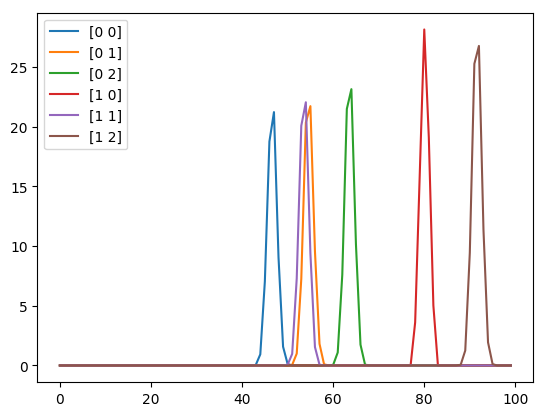
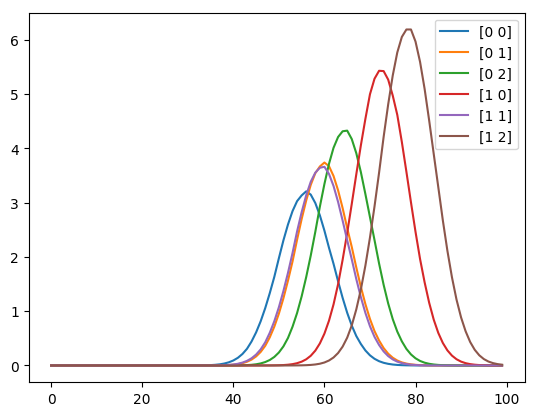
switched order of arguments to calculate fair scores, seems to be wrong in ot docs

diff --git a/src/cfa/cfa.py b/src/cfa/cfa.py
@@ -96,15 +96,15 @@ class ContinuousFairnessAlgorithm():
             self.__plott(group_barycenters, 'groupBarycenters.png')
         return group_barycenters
 
-    def __calculateFairScores(self, group_barycenters):
+    def __calculateFairScores(self, group_barycenters, total_bary):
         # calculate new scores from group barycenters
         groupFairScores = pd.DataFrame(columns=self.__groupNames)
         for groupName in self.__rawDataAsHistograms:
-            ot_matrix = ot.emd(self.__rawDataAsHistograms[groupName],
-                               group_barycenters[groupName],
+            ot_matrix = ot.emd(group_barycenters[groupName],
+                               self.__rawDataAsHistograms[groupName],
                                self.__lossMatrix)
-            plt.imshow(ot_matrix)
-            plt.show()
+#             plt.imshow(ot_matrix)
+#             plt.show()
             # TODO: landet man damit auf jeden Fall im gleichen Score Range?
             groupFairScores[groupName] = np.matmul(ot_matrix, self.__score_values.T)
 
@@ -150,5 +150,5 @@ class ContinuousFairnessAlgorithm():
         total_bary = self.__getTotalBarycenter()
         group_barycenters = self.__get_group_barycenters(total_bary)
 
-        self.__calculateFairScores(group_barycenters)
+        self.__calculateFairScores(group_barycenters, total_bary)
 
